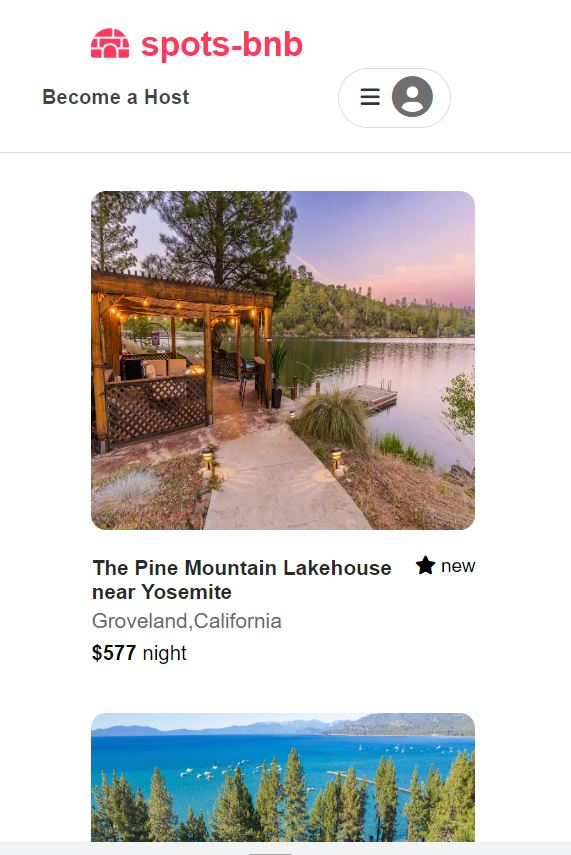
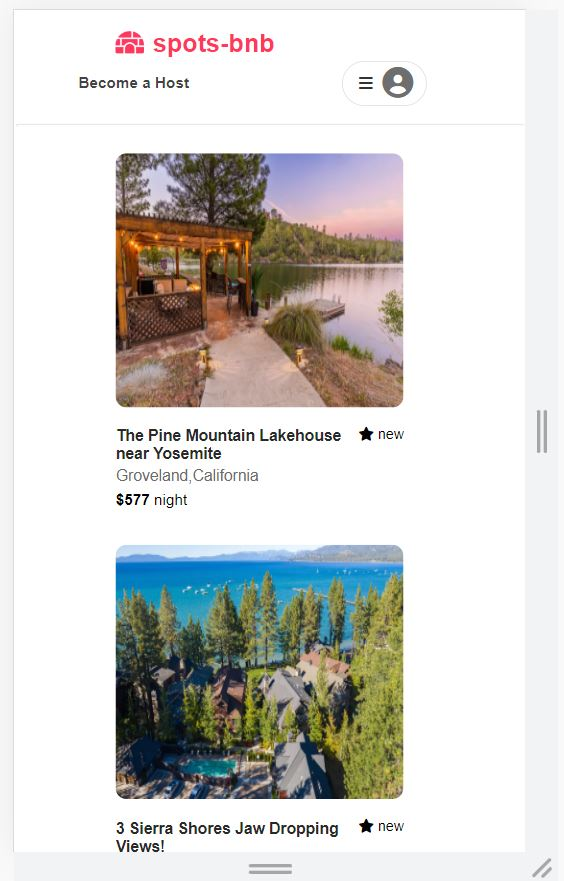
readme

diff --git a/README.md b/README.md
@@ -30,13 +30,13 @@ Please see below link to project wiki:
 
 
 
-* Home page for Display resolution 815 x 561
+* Home page for Display resolution 750 x 748
 
 ![AirBnB db schema](tab-home-page.JPG)
 
 
 
 
-* Home page for Display resolution 454 x 561
+* Home page for Display resolution 454 x 748
 
 ![AirBnB db schema](responsive-home-page.JPG)
